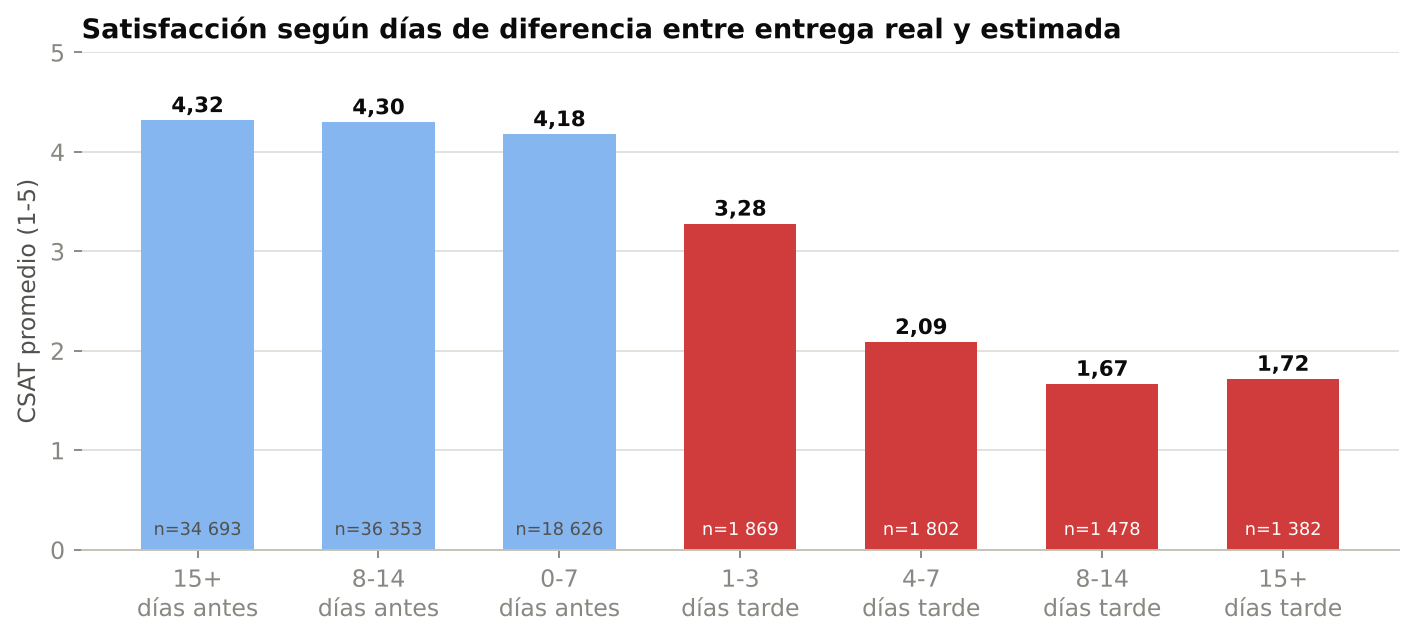
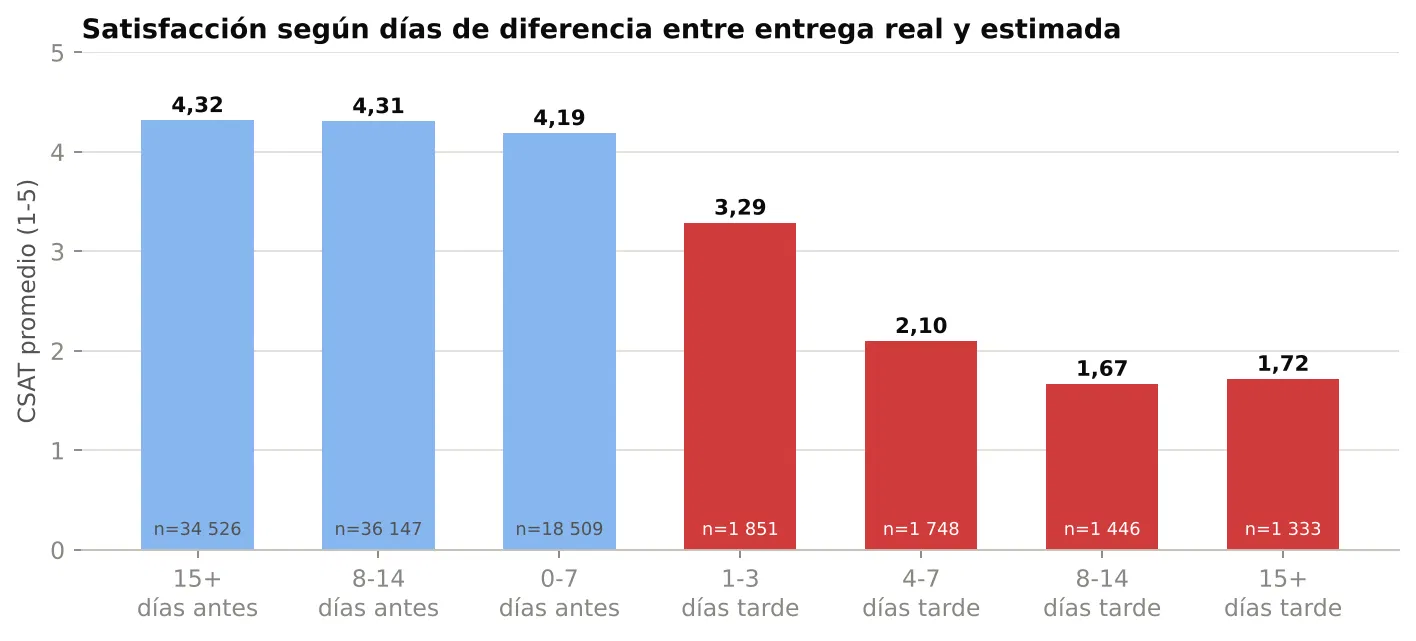
docs: valores finales, evidencias de ejecución y figura 6 actualizada

diff --git a/reports/perfilado.md b/reports/perfilado.md
@@ -1,0 +1,268 @@
+# Perfilado del dataset Olist (datos originales)
+
+Total de filas en los 9 archivos: **1,550,922** · columnas: **52**
+
+## orders (olist_orders_dataset.csv)
+
+- Filas: **99,441** · Columnas: **8**
+- Filas duplicadas (idénticas): **0**
+
+| Columna | Tipo leído | Nulos | % nulos | Valores distintos |
+|---|---|---:|---:|---:|
+| order_id | object | 0 | 0.0 % | 99,441 |
+| customer_id | object | 0 | 0.0 % | 99,441 |
+| order_status | object | 0 | 0.0 % | 8 |
+| order_purchase_timestamp | object | 0 | 0.0 % | 98,875 |
+| order_approved_at | object | 160 | 0.2 % | 90,733 |
+| order_delivered_carrier_date | object | 1,783 | 1.8 % | 81,018 |
+| order_delivered_customer_date | object | 2,965 | 3.0 % | 95,664 |
+| order_estimated_delivery_date | object | 0 | 0.0 % | 459 |
+
+## order_items (olist_order_items_dataset.csv)
+
+- Filas: **112,650** · Columnas: **7**
+- Filas duplicadas (idénticas): **0**
+
+| Columna | Tipo leído | Nulos | % nulos | Valores distintos |
+|---|---|---:|---:|---:|
+| order_id | object | 0 | 0.0 % | 98,666 |
+| order_item_id | int64 | 0 | 0.0 % | 21 |
+| product_id | object | 0 | 0.0 % | 32,951 |
+| seller_id | object | 0 | 0.0 % | 3,095 |
+| shipping_limit_date | object | 0 | 0.0 % | 93,318 |
+| price | float64 | 0 | 0.0 % | 5,968 |
+| freight_value | float64 | 0 | 0.0 % | 6,999 |
+
+Estadísticas numéricas:
+
+|       |   order_item_id |     price |   freight_value |
+|:------|----------------:|----------:|----------------:|
+| count |       112650    | 112650    |       112650    |
+| mean  |            1.2  |    120.65 |           19.99 |
+| std   |            0.71 |    183.63 |           15.81 |
+| min   |            1    |      0.85 |            0    |
+| 25%   |            1    |     39.9  |           13.08 |
+| 50%   |            1    |     74.99 |           16.26 |
+| 75%   |            1    |    134.9  |           21.15 |
+| max   |           21    |   6735    |          409.68 |
+
+
+## order_payments (olist_order_payments_dataset.csv)
+
+- Filas: **103,886** · Columnas: **5**
+- Filas duplicadas (idénticas): **0**
+
+| Columna | Tipo leído | Nulos | % nulos | Valores distintos |
+|---|---|---:|---:|---:|
+| order_id | object | 0 | 0.0 % | 99,440 |
+| payment_sequential | int64 | 0 | 0.0 % | 29 |
+| payment_type | object | 0 | 0.0 % | 5 |
+| payment_installments | int64 | 0 | 0.0 % | 24 |
+| payment_value | float64 | 0 | 0.0 % | 29,077 |
+
+Estadísticas numéricas:
+
+|       |   payment_sequential |   payment_installments |   payment_value |
+|:------|---------------------:|-----------------------:|----------------:|
+| count |            103886    |              103886    |       103886    |
+| mean  |                 1.09 |                   2.85 |          154.1  |
+| std   |                 0.71 |                   2.69 |          217.49 |
+| min   |                 1    |                   0    |            0    |
+| 25%   |                 1    |                   1    |           56.79 |
+| 50%   |                 1    |                   1    |          100    |
+| 75%   |                 1    |                   4    |          171.84 |
+| max   |                29    |                  24    |        13664.1  |
+
+
+## order_reviews (olist_order_reviews_dataset.csv)
+
+- Filas: **99,224** · Columnas: **7**
+- Filas duplicadas (idénticas): **0**
+
+| Columna | Tipo leído | Nulos | % nulos | Valores distintos |
+|---|---|---:|---:|---:|
+| review_id | object | 0 | 0.0 % | 98,410 |
+| order_id | object | 0 | 0.0 % | 98,673 |
+| review_score | int64 | 0 | 0.0 % | 5 |
+| review_comment_title | object | 87,656 | 88.3 % | 4,527 |
+| review_comment_message | object | 58,247 | 58.7 % | 36,159 |
+| review_creation_date | object | 0 | 0.0 % | 636 |
+| review_answer_timestamp | object | 0 | 0.0 % | 98,248 |
+
+Estadísticas numéricas:
+
+|       |   review_score |
+|:------|---------------:|
+| count |       99224    |
+| mean  |           4.09 |
+| std   |           1.35 |
+| min   |           1    |
+| 25%   |           4    |
+| 50%   |           5    |
+| 75%   |           5    |
+| max   |           5    |
+
+
+## customers (olist_customers_dataset.csv)
+
+- Filas: **99,441** · Columnas: **5**
+- Filas duplicadas (idénticas): **0**
+
+| Columna | Tipo leído | Nulos | % nulos | Valores distintos |
+|---|---|---:|---:|---:|
+| customer_id | object | 0 | 0.0 % | 99,441 |
+| customer_unique_id | object | 0 | 0.0 % | 96,096 |
+| customer_zip_code_prefix | int64 | 0 | 0.0 % | 14,994 |
+| customer_city | object | 0 | 0.0 % | 4,119 |
+| customer_state | object | 0 | 0.0 % | 27 |
+
+Estadísticas numéricas:
+
+|       |   customer_zip_code_prefix |
+|:------|---------------------------:|
+| count |                    99441   |
+| mean  |                    35137.5 |
+| std   |                    29797.9 |
+| min   |                     1003   |
+| 25%   |                    11347   |
+| 50%   |                    24416   |
+| 75%   |                    58900   |
+| max   |                    99990   |
+
+
+## sellers (olist_sellers_dataset.csv)
+
+- Filas: **3,095** · Columnas: **4**
+- Filas duplicadas (idénticas): **0**
+
+| Columna | Tipo leído | Nulos | % nulos | Valores distintos |
+|---|---|---:|---:|---:|
+| seller_id | object | 0 | 0.0 % | 3,095 |
+| seller_zip_code_prefix | int64 | 0 | 0.0 % | 2,246 |
+| seller_city | object | 0 | 0.0 % | 611 |
+| seller_state | object | 0 | 0.0 % | 23 |
+
+Estadísticas numéricas:
+
+|       |   seller_zip_code_prefix |
+|:------|-------------------------:|
+| count |                   3095   |
+| mean  |                  32291.1 |
+| std   |                  32713.5 |
+| min   |                   1001   |
+| 25%   |                   7093.5 |
+| 50%   |                  14940   |
+| 75%   |                  64552.5 |
+| max   |                  99730   |
+
+
+## products (olist_products_dataset.csv)
+
+- Filas: **32,951** · Columnas: **9**
+- Filas duplicadas (idénticas): **0**
+
+| Columna | Tipo leído | Nulos | % nulos | Valores distintos |
+|---|---|---:|---:|---:|
+| product_id | object | 0 | 0.0 % | 32,951 |
+| product_category_name | object | 610 | 1.9 % | 73 |
+| product_name_lenght | float64 | 610 | 1.9 % | 66 |
+| product_description_lenght | float64 | 610 | 1.9 % | 2,960 |
+| product_photos_qty | float64 | 610 | 1.9 % | 19 |
+| product_weight_g | float64 | 2 | 0.0 % | 2,204 |
+| product_length_cm | float64 | 2 | 0.0 % | 99 |
+| product_height_cm | float64 | 2 | 0.0 % | 102 |
+| product_width_cm | float64 | 2 | 0.0 % | 95 |
+
+Estadísticas numéricas:
+
+|       |   product_name_lenght |   product_description_lenght |   product_photos_qty |   product_weight_g |   product_length_cm |   product_height_cm |   product_width_cm |
+|:------|----------------------:|-----------------------------:|---------------------:|-------------------:|--------------------:|--------------------:|-------------------:|
+| count |              32341    |                     32341    |             32341    |           32949    |            32949    |            32949    |           32949    |
+| mean  |                 48.48 |                       771.5  |                 2.19 |            2276.47 |               30.82 |               16.94 |              23.2  |
+| std   |                 10.25 |                       635.12 |                 1.74 |            4282.04 |               16.91 |               13.64 |              12.08 |
+| min   |                  5    |                         4    |                 1    |               0    |                7    |                2    |               6    |
+| 25%   |                 42    |                       339    |                 1    |             300    |               18    |                8    |              15    |
+| 50%   |                 51    |                       595    |                 1    |             700    |               25    |               13    |              20    |
+| 75%   |                 57    |                       972    |                 3    |            1900    |               38    |               21    |              30    |
+| max   |                 76    |                      3992    |                20    |           40425    |              105    |              105    |             118    |
+
+
+## geolocation (olist_geolocation_dataset.csv)
+
+- Filas: **1,000,163** · Columnas: **5**
+- Filas duplicadas (idénticas): **261,831**
+
+| Columna | Tipo leído | Nulos | % nulos | Valores distintos |
+|---|---|---:|---:|---:|
+| geolocation_zip_code_prefix | int64 | 0 | 0.0 % | 19,015 |
+| geolocation_lat | float64 | 0 | 0.0 % | 717,360 |
+| geolocation_lng | float64 | 0 | 0.0 % | 717,613 |
+| geolocation_city | object | 0 | 0.0 % | 8,011 |
+| geolocation_state | object | 0 | 0.0 % | 27 |
+
+Estadísticas numéricas:
+
+|       |   geolocation_zip_code_prefix |   geolocation_lat |   geolocation_lng |
+|:------|------------------------------:|------------------:|------------------:|
+| count |                   1.00016e+06 |       1.00016e+06 |       1.00016e+06 |
+| mean  |               36574.2         |     -21.18        |     -46.39        |
+| std   |               30549.3         |       5.72        |       4.27        |
+| min   |                1001           |     -36.61        |    -101.47        |
+| 25%   |               11075           |     -23.6         |     -48.57        |
+| 50%   |               26530           |     -22.92        |     -46.64        |
+| 75%   |               63504           |     -19.98        |     -43.77        |
+| max   |               99990           |      45.07        |     121.11        |
+
+
+## category_translation (product_category_name_translation.csv)
+
+- Filas: **71** · Columnas: **2**
+- Filas duplicadas (idénticas): **0**
+
+| Columna | Tipo leído | Nulos | % nulos | Valores distintos |
+|---|---|---:|---:|---:|
+| product_category_name | object | 0 | 0.0 % | 71 |
+| product_category_name_english | object | 0 | 0.0 % | 71 |
+
+## Hallazgos de calidad
+
+- Pedidos `delivered` sin fecha de entrega: **8**
+- Pedidos entregados a la transportista antes de ser aprobados: **1,359**
+- Productos sin categoría: **610** · sin peso o con peso 0: **6**
+- Categorías sin traducción: **pc_gamer, portateis_cozinha_e_preparadores_de_alimentos**
+- Reseñas: review_id repetidos **814** · pedidos con más de una reseña **547**
+- Geolocalización: filas idénticas **261,831** · prefijos postales distintos **19,015**
+- Precio: mediana R$ 74.99 · máximo R$ 6,735.00 · ítems sobre el límite IQR (R$ 277.40): **8,427**
+- Ítems con flete 0: **383** · pagos con valor 0: **9** · pagos con 0 cuotas: **2**
+- payment_type = not_defined: **3**
+- Pedidos sin ítems: **775** · pedidos sin pago: **1**
+
+Pedidos por mes (para detectar meses incompletos):
+
+| order_purchase_timestamp   |   pedidos |
+|:---------------------------|----------:|
+| 2016-09                    |         4 |
+| 2016-10                    |       324 |
+| 2016-12                    |         1 |
+| 2017-01                    |       800 |
+| 2017-02                    |      1780 |
+| 2017-03                    |      2682 |
+| 2017-04                    |      2404 |
+| 2017-05                    |      3700 |
+| 2017-06                    |      3245 |
+| 2017-07                    |      4026 |
+| 2017-08                    |      4331 |
+| 2017-09                    |      4285 |
+| 2017-10                    |      4631 |
+| 2017-11                    |      7544 |
+| 2017-12                    |      5673 |
+| 2018-01                    |      7269 |
+| 2018-02                    |      6728 |
+| 2018-03                    |      7211 |
+| 2018-04                    |      6939 |
+| 2018-05                    |      6873 |
+| 2018-06                    |      6167 |
+| 2018-07                    |      6292 |
+| 2018-08                    |      6512 |
+| 2018-09                    |        16 |
+| 2018-10                    |         4 |

diff --git a/reports/validaciones.md b/reports/validaciones.md
@@ -1,0 +1,104 @@
+# Resultados de las consultas de validación
+
+## 0. Origen vs staging
+
+| tabla | filas_origen | filas_limpias | filas_descartadas | filas_en_staging | estado |
+|---|---|---|---|---|---|
+| geolocation | 1000163 | 0 | 1000163 |  | OK |
+| order_items | 112650 | 112650 | 0 | 112650 | OK |
+| order_payments | 103886 | 103886 | 0 | 103886 | OK |
+| customers | 99441 | 99441 | 0 | 99441 | OK |
+| orders | 99441 | 99441 | 0 | 99441 | OK |
+| order_reviews | 99224 | 98673 | 551 | 98673 | OK |
+| products | 32951 | 32951 | 0 | 32951 | OK |
+| sellers | 3095 | 3095 | 0 | 3095 | OK |
+| category_translation | 71 | 74 | -3 | 74 | OK |
+
+## 1. Registros
+
+| tabla | filas |
+|---|---|
+| dim_estado_pedido | 8 |
+| dim_pago | 20 |
+| dim_tiempo | 730 |
+| dim_vendedor | 3095 |
+| dim_producto | 32951 |
+| dim_cliente | 99441 |
+| fact_ventas | 112279 |
+
+## 1b. Staging vs fact
+
+| items_staging | filas_fact |
+|---|---|
+| 112279 | 112279 |
+
+## 2. Huerfanos
+
+| sin_tiempo | sin_cliente | sin_producto | sin_vendedor | sin_estado | sin_pago |
+|---|---|---|---|---|---|
+| 0 | 0 | 0 | 0 | 0 | 0 |
+
+## 2b. Duplicados en fact
+
+| duplicados |
+|---|
+| 0 |
+
+## 2c. Pedidos sin items
+
+| pedidos | estados |
+|---|---|
+| 739 | canceled, created, unavailable |
+
+## 3. Nulos en fact
+
+| dias_entrega_nulo | dias_retraso_nulo | flag_a_tiempo_nulo | review_nulo | precio_o_flete_nulo |
+|---|---|---|---|---|
+| 2407 | 2407 | 2407 | 936 | 0 |
+
+## 3a. Entrega nula por estado
+
+| order_status | items |
+|---|---|
+| shipped | 1174 |
+| canceled | 527 |
+| processing | 355 |
+| invoiced | 340 |
+| delivered | 8 |
+| approved | 3 |
+
+## 3b. Nulos en dimensiones
+
+| productos_sin_categoria | productos_sin_peso | clientes_sin_ciudad | vendedores_sin_ciudad |
+|---|---|---|---|
+| 610 | 6 | 0 | 0 |
+
+## 4. Totales
+
+| items | pedidos | ingreso_productos | total_flete | ingreso_con_flete | ticket_promedio |
+|---|---|---|---|---|---|
+| 112279 | 98353 | 13541712.78 | 2244490.79 | 15786203.57 | 160.51 |
+
+## 4a. Totales staging vs fact
+
+| ingreso_staging | ingreso_fact | dif_ingreso | flete_staging | flete_fact | dif_flete |
+|---|---|---|---|---|---|
+| 13541712.78 | 13541712.78 | 0.00 | 2244490.79 | 2244490.79 | 0.00 |
+
+## 4b. valor_total inconsistente
+
+| filas |
+|---|
+| 0 |
+
+## 4c. KPI de entrega y satisfaccion
+
+| dias_entrega_promedio | pct_a_tiempo | csat_promedio |
+|---|---|---|
+| 12.5 | 93.2 | 4.12 |
+
+## 5. fn_kpis vs fn_ingresos_mensuales
+
+| ingreso_kpi | suma_mensual | suma_estados |
+|---|---|---|
+| 13449529.68 | 13449529.68 | 13449529.68 |
